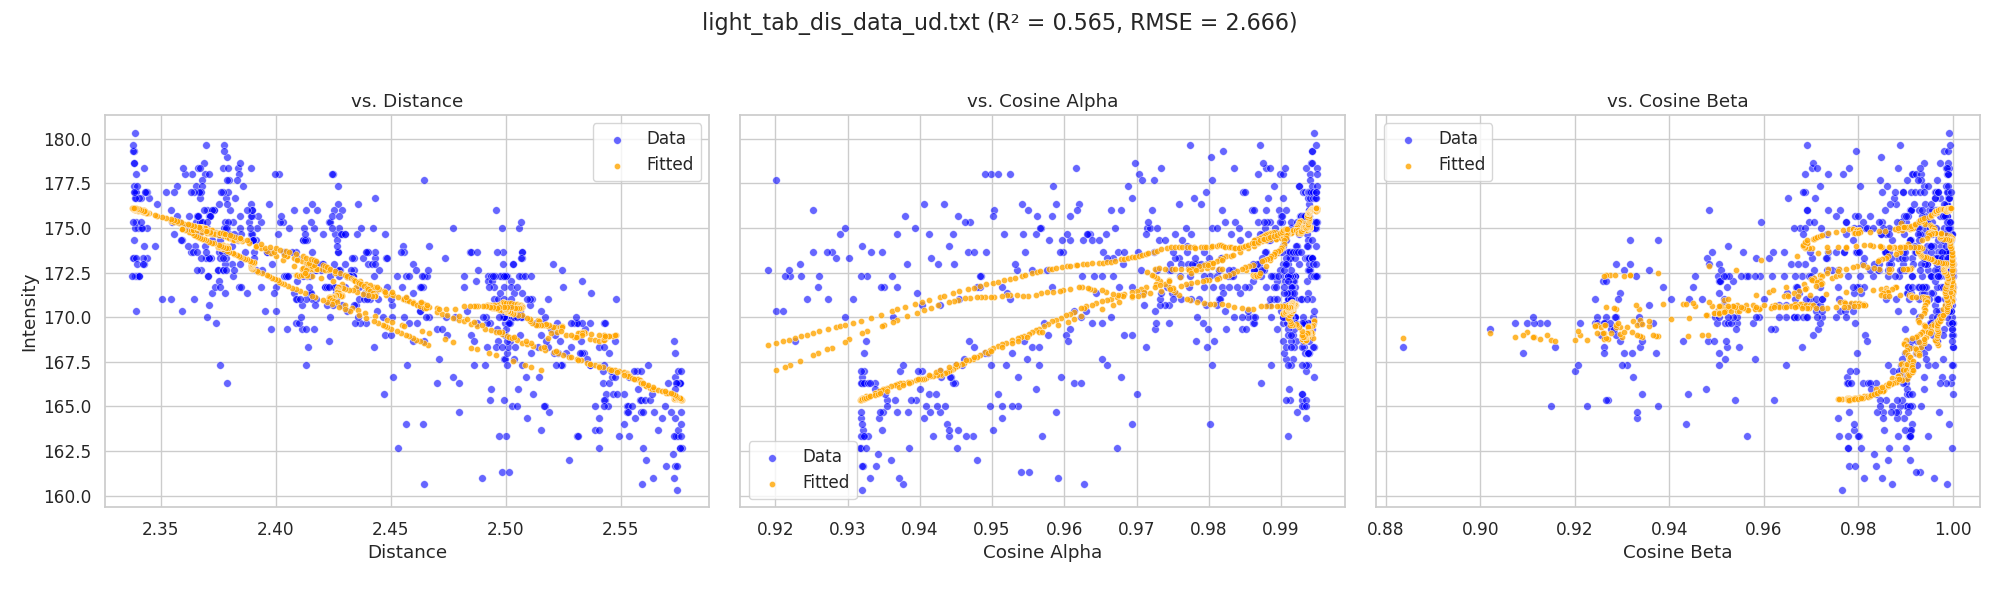
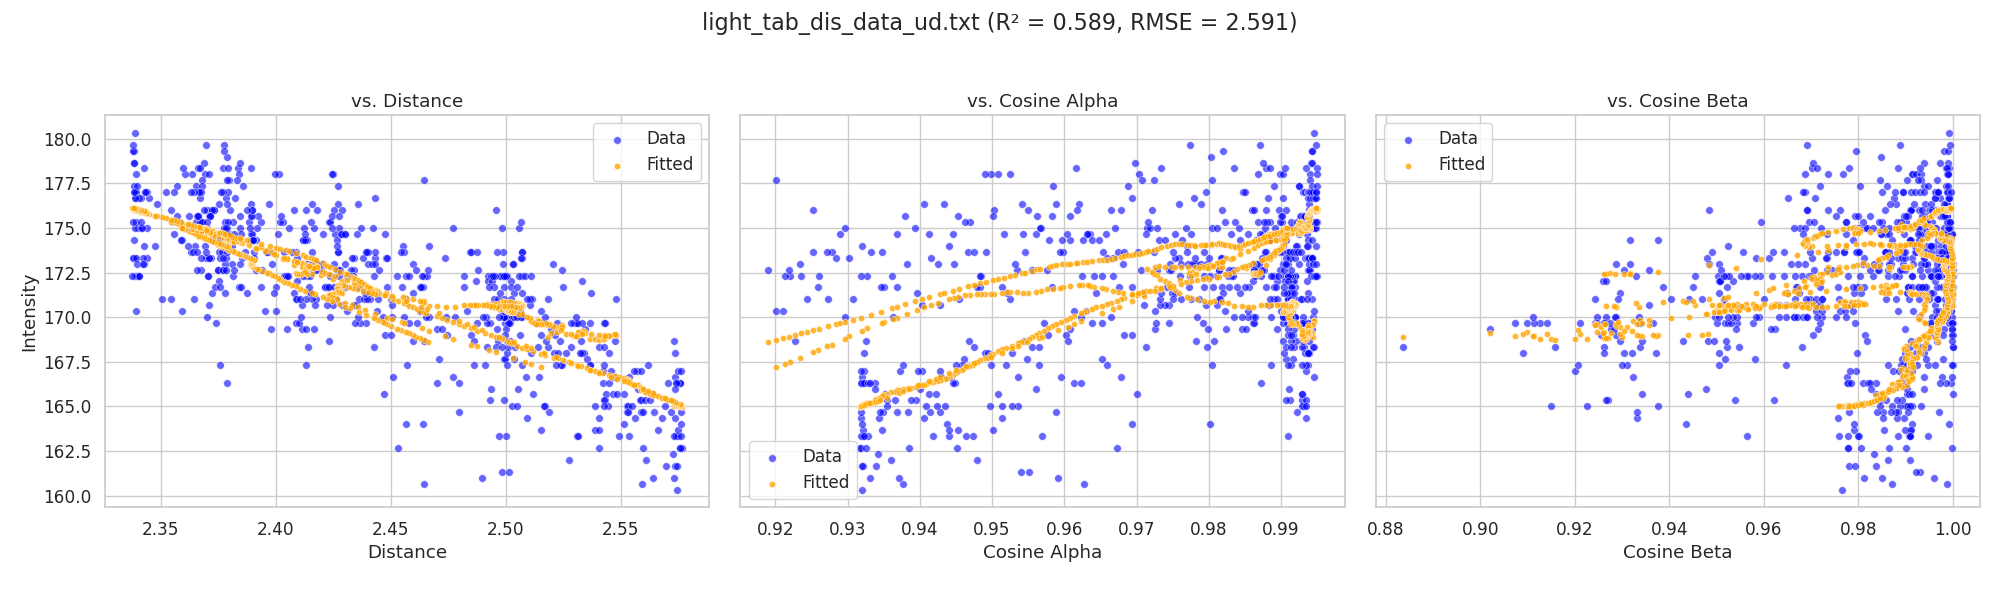
new plots

diff --git a/mcap_plot/plot_filter.py b/mcap_plot/plot_filter.py
@@ -512,11 +512,11 @@ def model_func(X, A, B, C, D, E, F, G):
         angular_term = 1.0
     else:
         angular_term = np.exp(-np.log(2) * (np.arccos(beta_clipped) / F)**2)
-        # angular_term = 1.0
+        # angular_term = 1.0s
 
     denominator = d**2 + np.exp(-B)
 
-    return (A * angular_term * (G * alpha + D * blinn**E)) / denominator + C
+    return (A * angular_term * alpha) / denominator + C
 
 # Load all datasets and concatenate for curve_fit
 X_all = []
@@ -589,14 +589,14 @@ for data_array, filename in datasets:
     plot_fit(axs[2], beta, "Cosine Beta")
 
     plt.tight_layout(rect=[0, 0.03, 1, 0.95])
-    plt.savefig(f"imgs/{os.path.splitext(filename)[0]}_fit_cf.png")
+    plt.savefig(f"im2/{os.path.splitext(filename)[0]}_fit_cf.png")
     plt.close(fig)
 
     # --- Residual Plots ---
     residuals_val = intensity_raw - y_fitted
 
     fig_res, axs_res = plt.subplots(1, 6, figsize=(24, 5.5)) # Slightly taller for titles
-    fig_res.suptitle(f"Residual Analysis for: {filename} (R² = {r2:.3f})", fontsize=16)
+    fig_res.suptitle(f"Residual Analysis for: {filename} (R² = {r2:.3f}, RMSE = {rmse:.3f})", fontsize=16)
     
     # 1. Residuals vs. Fitted
     axs_res[0].scatter(y_fitted, residuals_val, alpha=0.5, color='green', s=20)
@@ -647,7 +647,7 @@ for data_array, filename in datasets:
     axs_res[5].grid(True)
 
     plt.tight_layout(rect=[0, 0.03, 1, 0.95])
-    plt.savefig(f'imgs/{os.path.splitext(filename)[0]}_residuals.png')
+    plt.savefig(f'im2/{os.path.splitext(filename)[0]}_residuals.png')
     plt.close(fig_res)
 
 print("Curve fitting complete and plots saved.")

diff --git a/mcap_plot/test.py b/mcap_plot/test.py
@@ -1,0 +1,47 @@
+import matplotlib.pyplot as plt
+import matplotlib.patches as patches
+
+# Define the boxes for the diagram
+boxes = {
+    "Input": ("RGB + Depth Image\nOdometry Pose", (0.1, 0.7)),
+    "Init": ("Init Pose / Camera Pose\nGenerate Gaussians", (0.4, 0.7)),
+    "Keyframe": ("Add Keyframe\nLaunch Optimization Thread", (0.7, 0.7)),
+    "PoseEst": ("IMU Preintegration\n(Predict Camera Pose)", (0.1, 0.4)),
+    "Optimize": ("Photometric Optimization\n(Pose Estimation)", (0.4, 0.4)),
+    "Covis": ("Check Covisibility\nNew Keyframe?", (0.7, 0.4)),
+    "Update": ("Update Gaussians\nDensify & Marginalize", (0.4, 0.1)),
+}
+
+# Define arrows between steps
+arrows = [
+    ("Input", "Init"),
+    ("Init", "Keyframe"),
+    ("Keyframe", "PoseEst"),
+    ("PoseEst", "Optimize"),
+    ("Optimize", "Covis"),
+    ("Covis", "Update"),
+    ("Update", "PoseEst"),  # Loop back for next frame
+]
+
+fig, ax = plt.subplots(figsize=(10, 6))
+ax.axis("off")
+
+# Draw boxes
+for name, (text, pos) in boxes.items():
+    ax.add_patch(patches.FancyBboxPatch(
+        (pos[0], pos[1]), 0.25, 0.15,
+        boxstyle="round,pad=0.02", edgecolor="black", facecolor="#f0f0f0"
+    ))
+    ax.text(pos[0]+0.125, pos[1]+0.075, text, ha="center", va="center", fontsize=10)
+
+# Draw arrows
+for start, end in arrows:
+    x1, y1 = boxes[start][1]
+    x2, y2 = boxes[end][1]
+    ax.annotate("",
+                xy=(x2+0.125, y2+0.15 if y2 > y1 else y2), 
+                xytext=(x1+0.125, y1),
+                arrowprops=dict(arrowstyle="->", lw=1.5))
+
+plt.tight_layout()
+plt.show()
